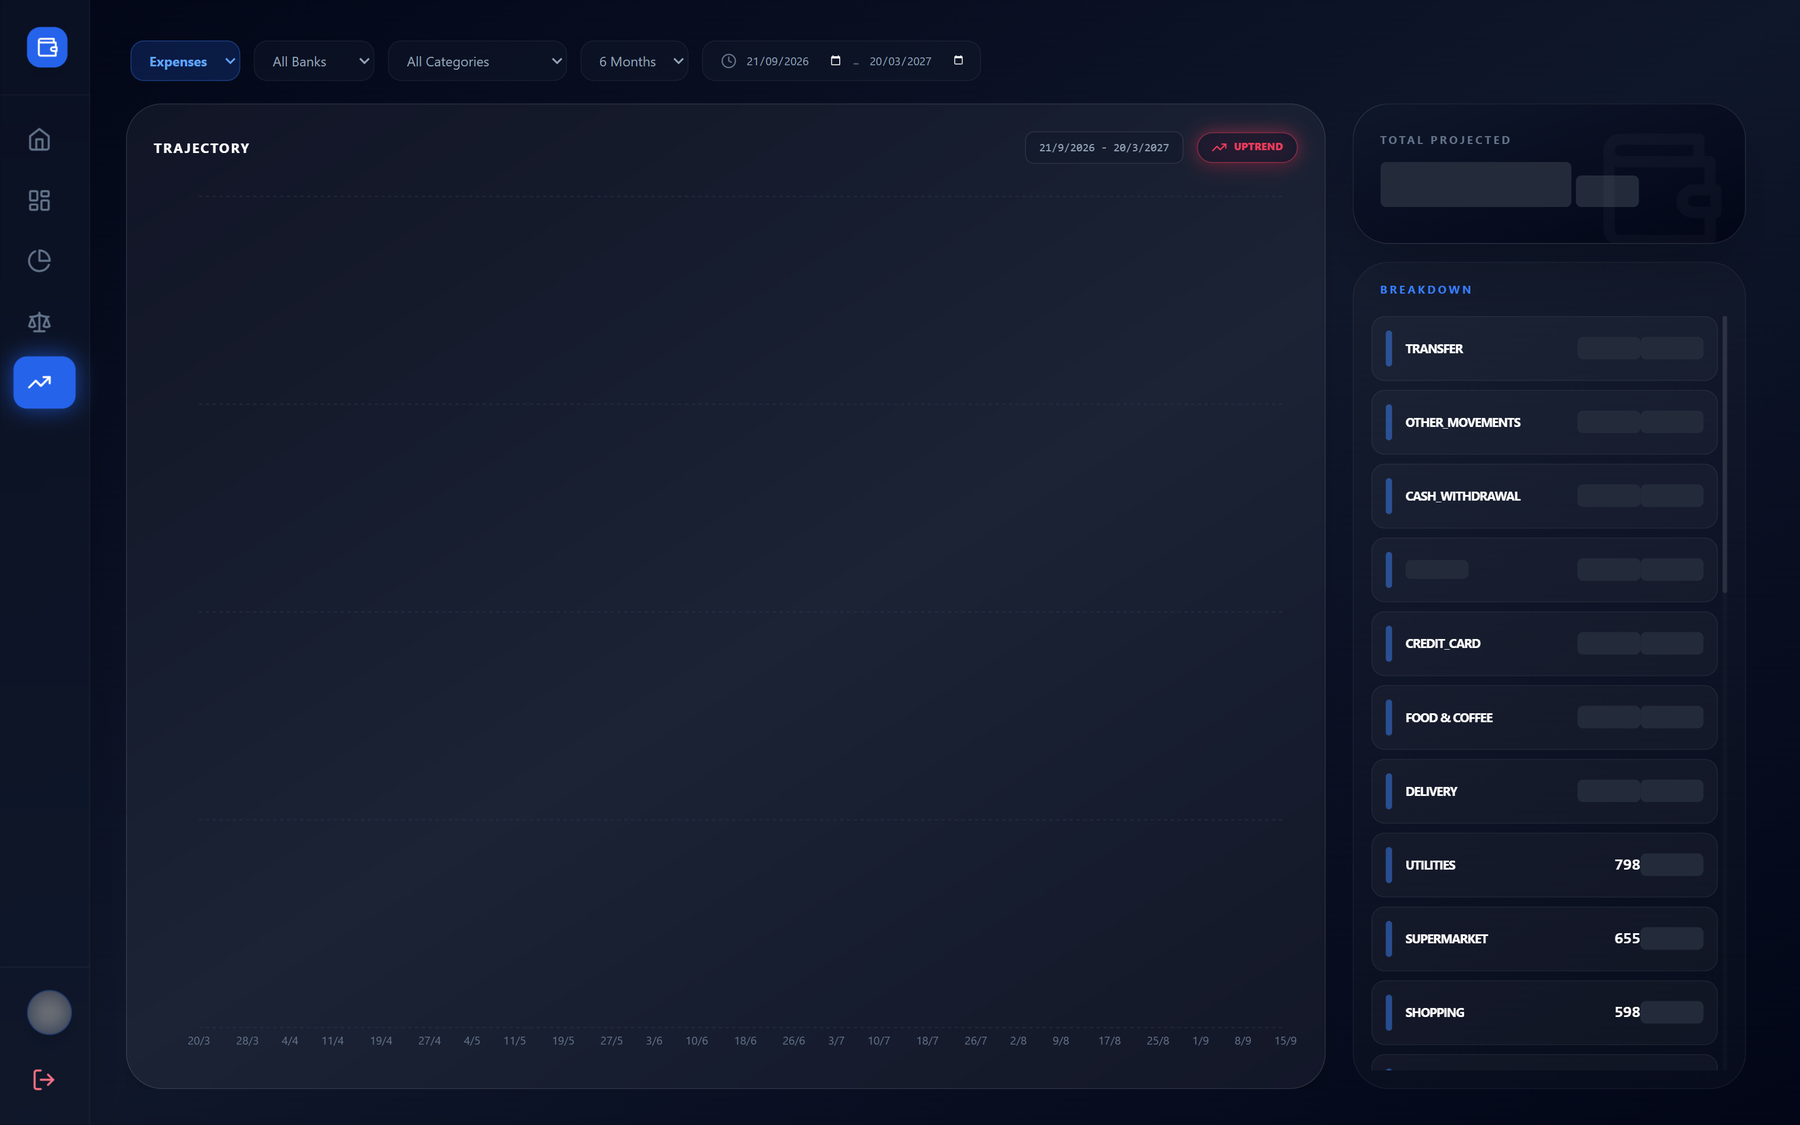
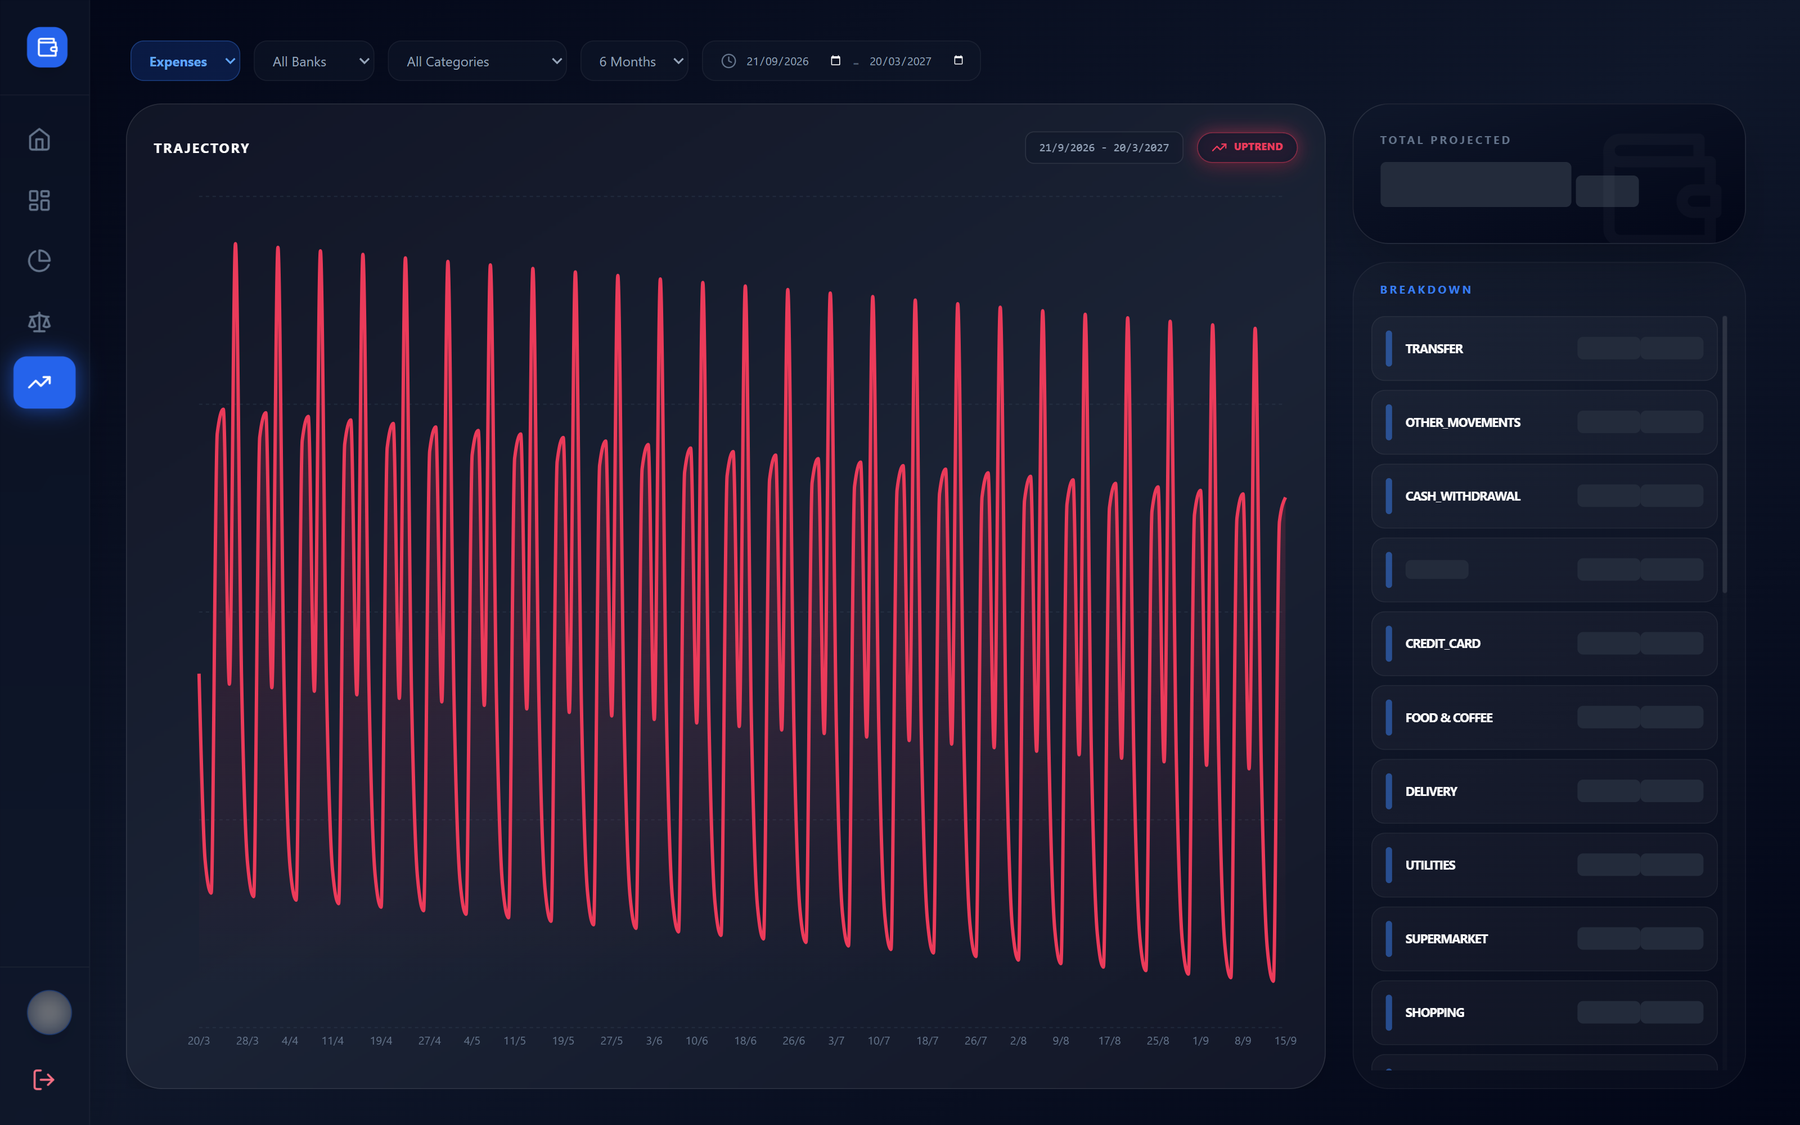
fix: σχεδιάζεται και η τροχιά της πρόβλεψης — δεν ήταν σφάλμα, ήταν το animation
Το Recharts εμφανίζει κάθε σειρά πίσω από ένα animationClipPath. Η λήψη έπεφτε
μέσα στο animation, οπότε η καμπύλη φαινόταν σαν λωρίδα δέκα pixel στην αριστερή
άκρη και έμοιαζε με άδειο γράφημα. Το script αφαιρεί πλέον το clip πριν το
screenshot, και η εξάμηνη προβολή σχεδιάζεται ολόκληρη, με ορατή την εβδομαδιαία
εποχικότητα που έπιασε το μοντέλο.

Καμία από τις τρεις οθόνες δεν είχε τελικά bug — οι δύο προηγούμενες διαγνώσεις
μου ήταν λάθος και διορθώνονται στο ROADMAP.

Το redaction κάλυπτε ποσά με διαχωριστικό αλλά άφηνε ακέραιους: το «798 €» της
πρόβλεψης έμενε ορατό. Καλύπτεται πλέον κάθε σκέτος αριθμός που έχει ευρώ κοντά
του, ενώ το «5.590 εγγραφές» και οι «4 πηγές» μένουν, γιατί δεν είναι ποσά.

Changed region(s): [[0.0933, 0.2178, 0.7156, 0.8711]]

diff --git a/docs/ROADMAP.md b/docs/ROADMAP.md
@@ -301,8 +301,8 @@
 
 **Σφάλματα των ίδιων των εφαρμογών** — δεν διορθώθηκαν, είναι άλλα repos:
 - Expenses Predictor: ~~τα γραφήματα δεν σχεδιάζονται~~ — **λάθος διάγνωση, βλ.
-  Φάση 6ε.** Τα γραφήματα θέλουν ρητό εύρος ημερομηνιών, και το backend στο
-  Render είχε αδρανοποιηθεί.
+  Φάση 6ε.** Θέλουν ρητό εύρος ημερομηνιών, το backend στο Render είχε
+  αδρανοποιηθεί, και η λήψη έπεφτε μέσα στο animation του Recharts.
 - NutriDash: ανεστραμμένος κάθετος άξονας στο «Ημερήσια πρόσληψη».
 
 ## Φάση 6ε — Φορτωμένα γραφήματα, Κορινθία, hover ✅
@@ -326,8 +326,13 @@
 
 Το script λήψης συμπληρώνει πλέον τις ημερομηνίες και **περιμένει να εμφανιστούν
 πραγματικά σχήματα** (τομείς πίτας, καμπύλες, μπάρες) πριν τραβήξει — όχι απλώς
-να περάσει χρόνος. Μένει όντως ένα σφάλμα: το πάνελ τροχιάς στην πρόβλεψη δεν
-σχεδιάζει τίποτα σε ορίζοντα 6 μηνών.
+να περάσει χρόνος.
+
+**Ούτε η τροχιά της πρόβλεψης ήταν σφάλμα.** Το Recharts εμφανίζει κάθε σειρά
+πίσω από ένα `animationClipPath`. Η λήψη έπεφτε μέσα στο animation, οπότε η
+καμπύλη φαινόταν σαν λωρίδα δέκα pixel στην αριστερή άκρη. Αφαιρώντας το clip
+πριν το screenshot, σχεδιάζεται ολόκληρη: εξάμηνη προβολή με ορατή εβδομαδιαία
+εποχικότητα. **Καμία από τις τρεις οθόνες δεν είχε τελικά bug.**
 
 **Το redaction δούλευε σε στοιχεία — τώρα σε κόμβους κειμένου**
 Το «21.557,11» και το «€» ζουν σε χωριστά στοιχεία, οπότε ο έλεγχος «μόνο φύλλα»
